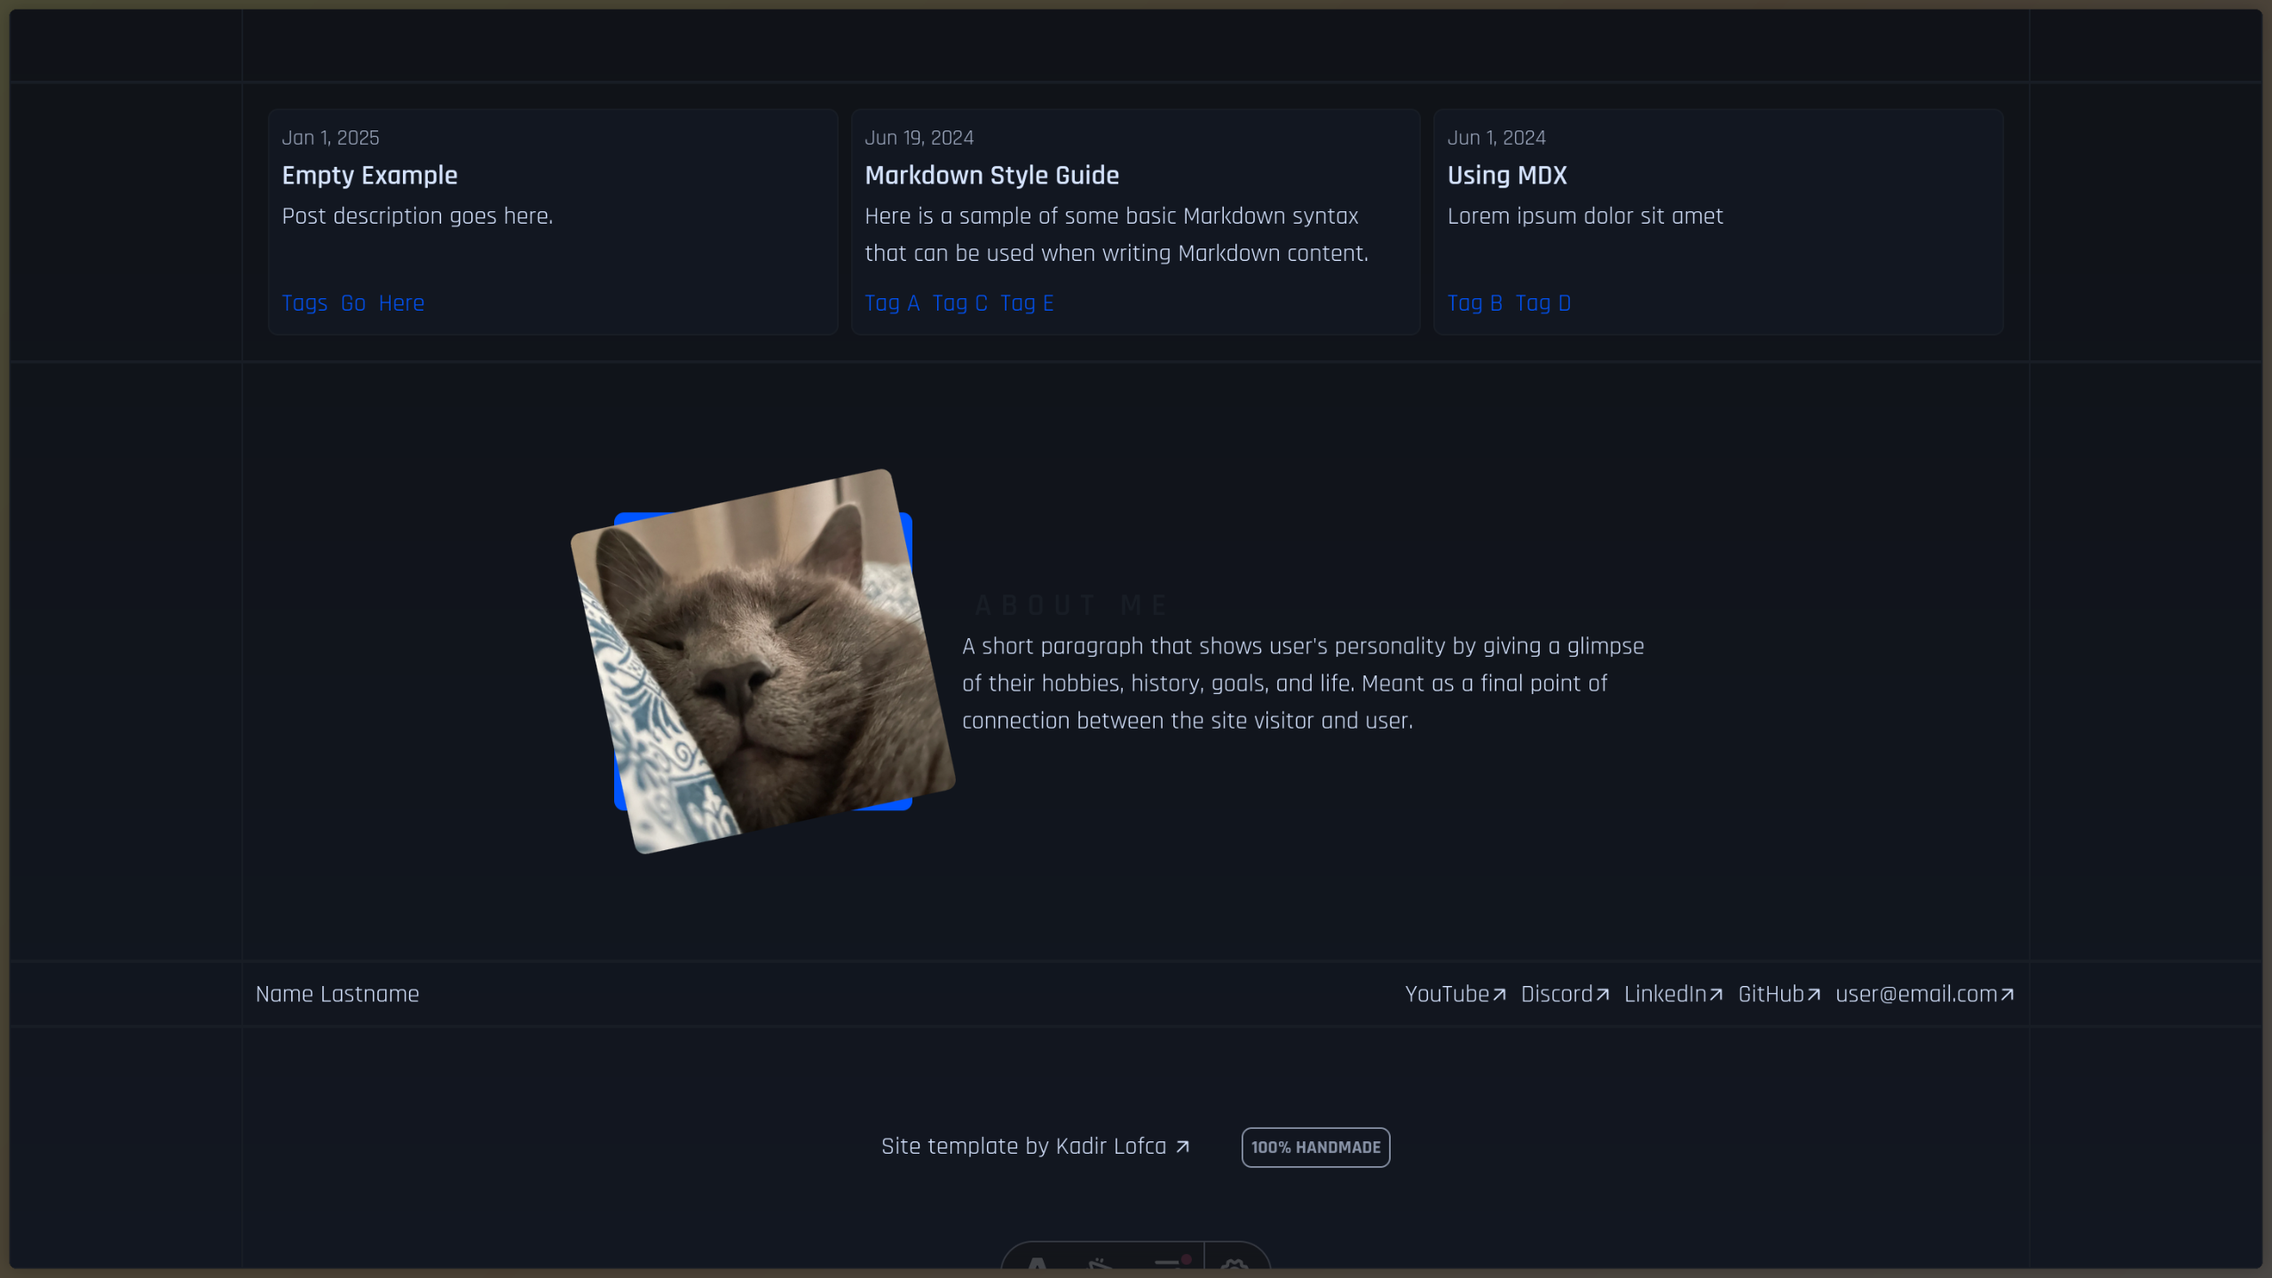
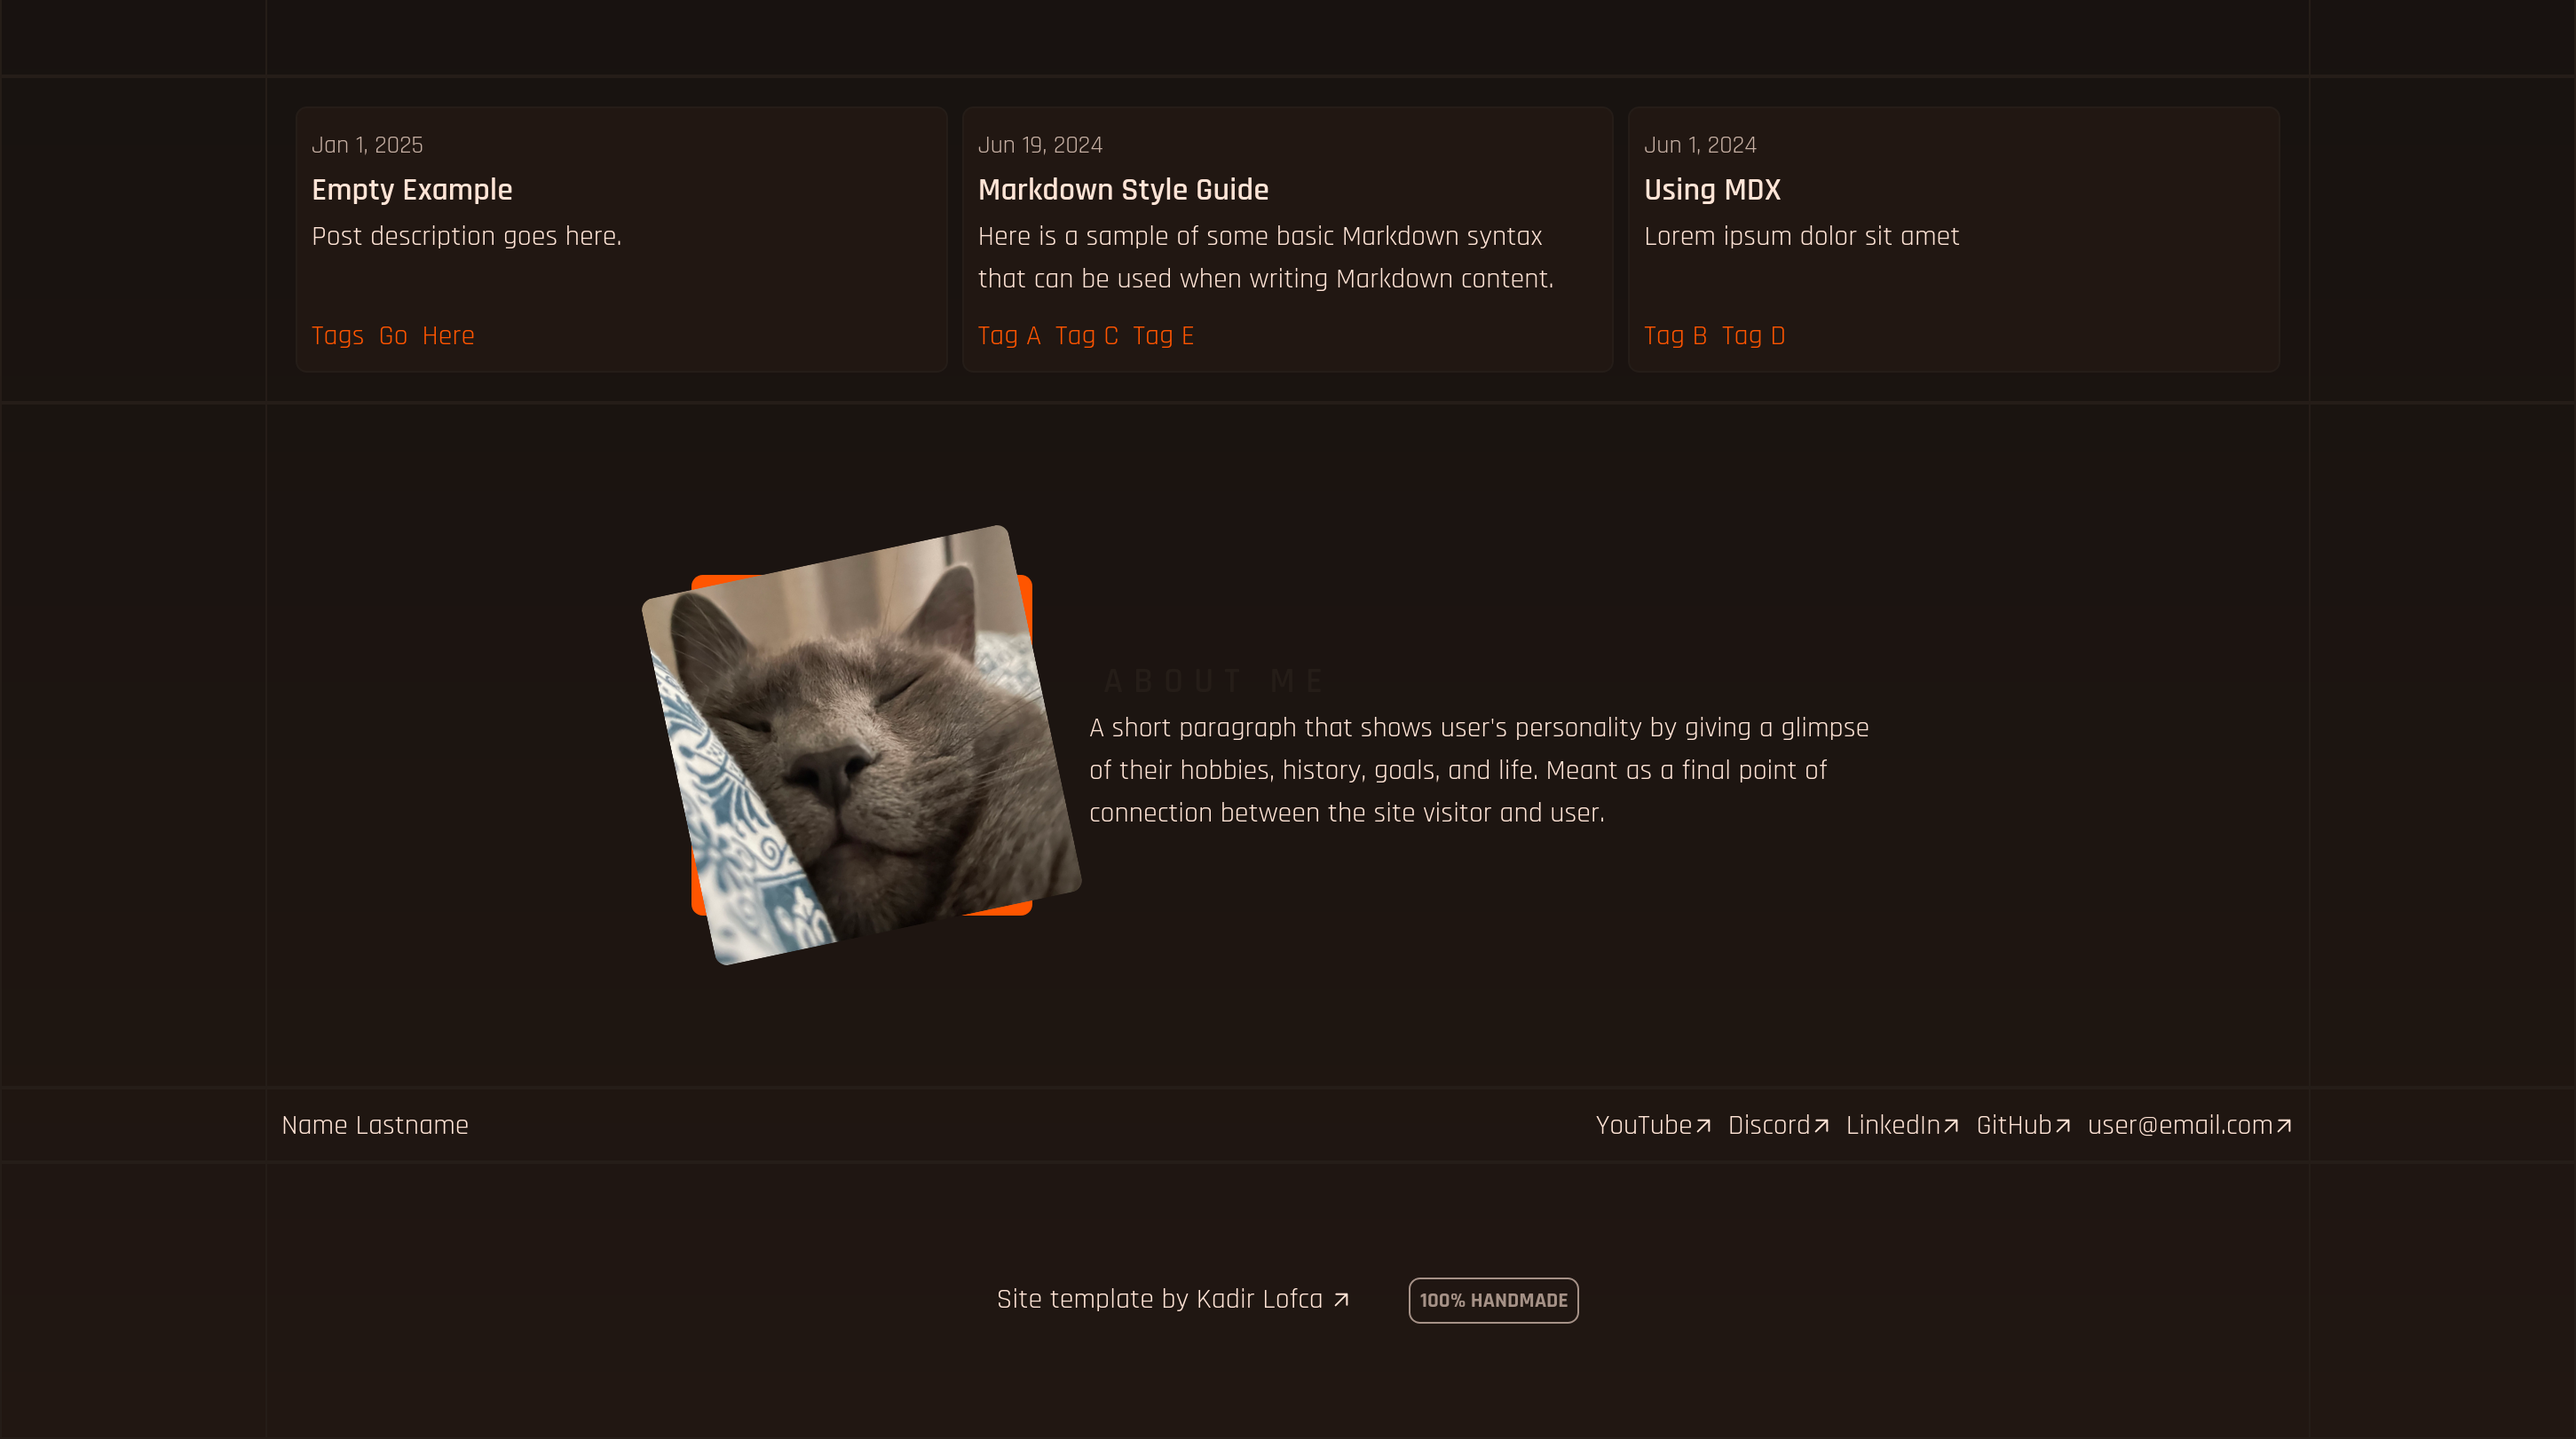
color change

diff --git a/src/styles/tailwind.css b/src/styles/tailwind.css
@@ -7,11 +7,12 @@
 
 @theme {
     /* COLOR */
-    --color-primary: hsl(20, 30%, 10%);
-    --color-primary-foreground: hsl(20, 100%, 92%);
-    --color-primary-desaturated: hsl(20, 10%, 6%);
-    --color-primary-border: hsl(20, 20%, 12%);
-    --color-accent: hsl(20, 100%, 50%);
+    --theme-hue: 210;
+    --color-primary: hsl(var(--theme-hue), 30%, 15%);
+    --color-primary-foreground: hsl(var(--theme-hue), 100%, 92%);
+    --color-primary-desaturated: hsl(var(--theme-hue), 10%, 6%);
+    --color-primary-border: hsl(var(--theme-hue), 30%, 18%);
+    --color-accent: hsl(var(--theme-hue), 100%, 50%);
     
     /* FONT */
     --font-primary: Rajdhani, system-ui;
